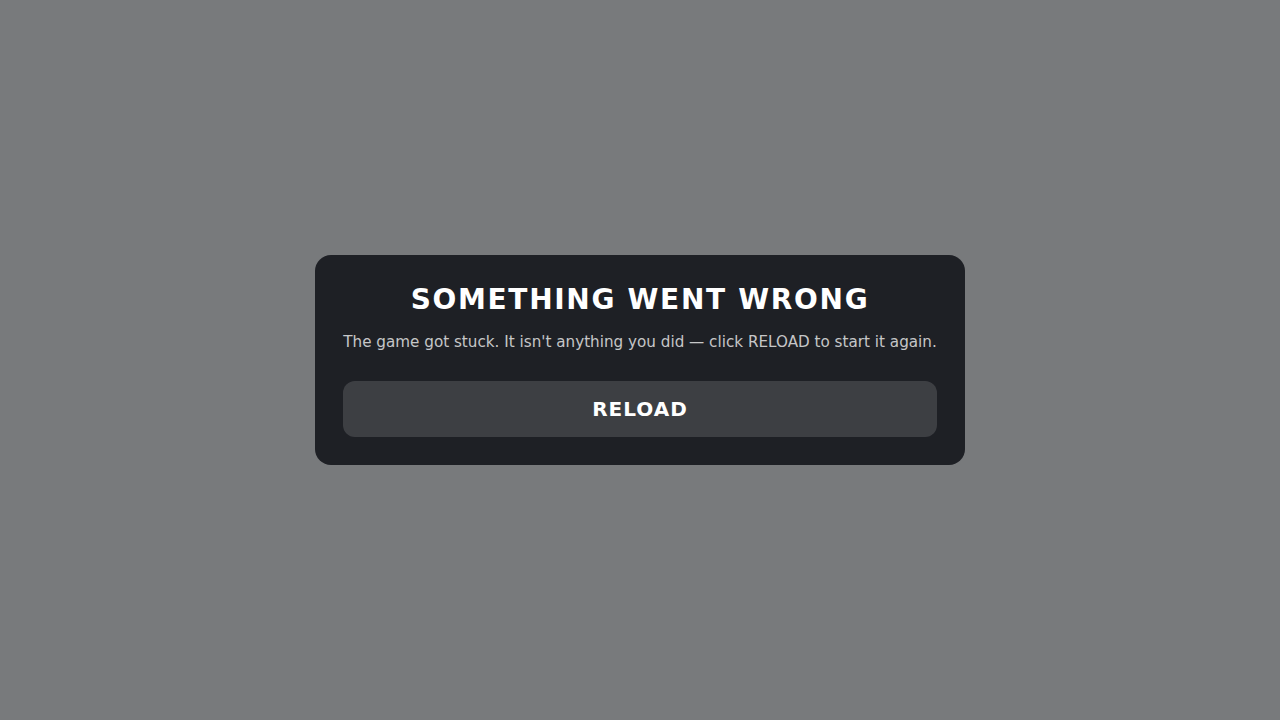
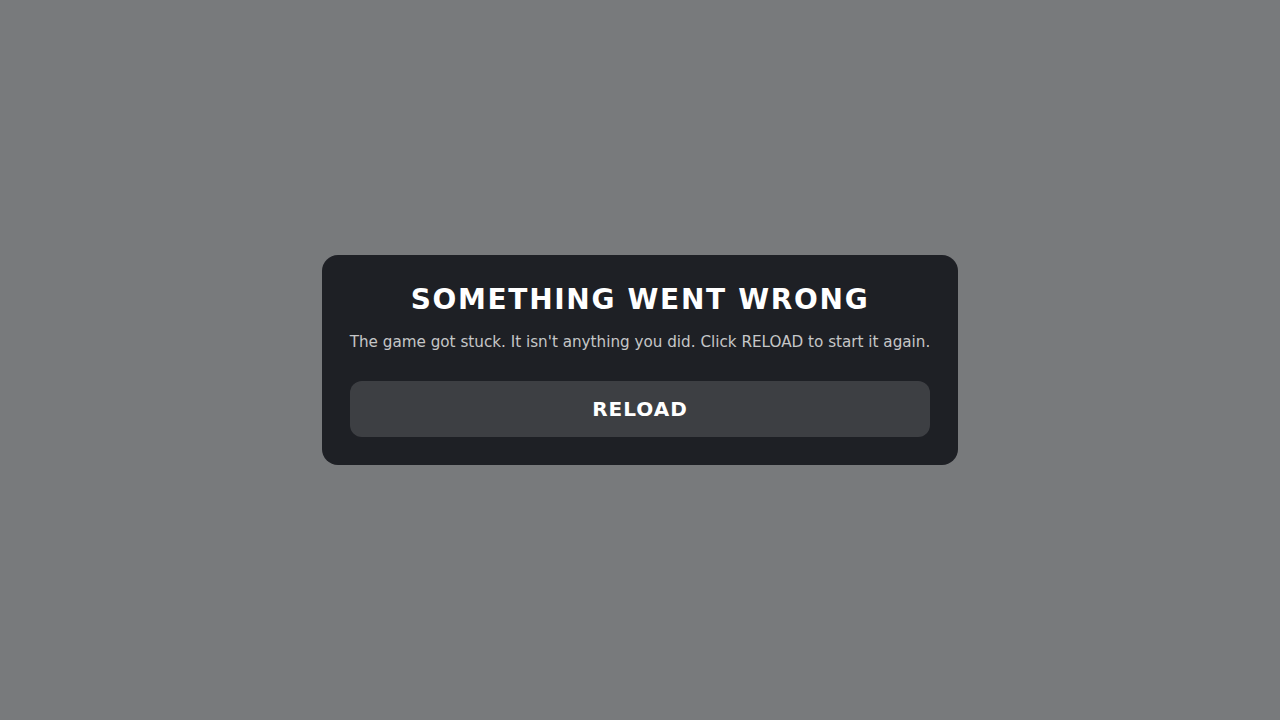
KI-06-02: land the approved error-screen copy
The design lead ruled on #276: the heading and the button as written, and
the message with one change — the dash becomes a full stop, so it is three
short sentences a child reads one at a time. The reassurance in the middle
is the best line on the screen and it deserves to stand on its own.

    The game got stuck. It isn't anything you did. Click RELOAD to start
    it again.

`Click` is capitalised because it now opens a sentence rather than
following a dash.

The three markers flip from unapproved to approved and the three strings
are quoted in DESIGN-DECISIONS §3 under a new Error screen bullet, so the
parity test holds catalogue and document to each other character for
character from now on — which is the point of approving copy at all. The
visual baseline is regenerated, and so is the screenshot the ruling was
made from.

Claude-Session: https://claude.ai/code/session_01MrM5NfEPoAQPbQz2nVkKTr

Changed region(s): [[0.2188, 0.3667, 0.7812, 0.6111]]

diff --git a/src/ui/strings.js b/src/ui/strings.js
@@ -491,21 +491,25 @@ export const tutorial = /*#__PURE__*/ deepFreeze({
  *
  * KI-06-02 (`docs/sprints/improvement-06-resilience-and-recovery.md`): the last-resort screen
  * (`src/ui/screens/error.js`), shown when WebGL was never available, a lost context never comes back, or
- * something threw during startup. Every entry is a first draft transcribed for the design lead to rule on —
- * see this module's own doc comment's "Approved vs. unapproved" section — written to the ticket's own spec:
- * "in words an eleven-year-old can act on, not a stack trace", with no `WebGL`, `context`, `GPU`, `Error`,
- * stack or error code anywhere in it. `tests/unit/ui/strings.test.js`'s "KI-06-02 AC3" describe block is the
- * machine-checkable half of that rule: a list of forbidden substrings run against every string this group
- * renders.
+ * something threw during startup. **All three entries are approved** (the design lead's ruling on #276,
+ * recorded in `DESIGN-DECISIONS §3` under "Error screen"), so the AC1 parity test now holds them to §3
+ * character for character. They are written to the ticket's own spec: "in words an eleven-year-old can act
+ * on, not a stack trace", with no `WebGL`, `context`, `GPU`, `Error`, stack or error code anywhere in them.
+ * `tests/unit/ui/strings.test.js`'s "KI-06-02 AC3" describe block is the machine-checkable half of that
+ * second rule: a list of forbidden substrings run against every string this group renders.
  */
 export const error = /*#__PURE__*/ deepFreeze({
-  // UNAPPROVED — KI-06-02 (`error.js`'s `heading.textContent`). "What happened", without naming the cause:
-  // an eleven-year-old has no use for "WebGL context lost", and the ticket rules that word choice out anyway.
+  // APPROVED — DESIGN-DECISIONS §3
+  // "What happened", without naming the cause: an eleven-year-old has no use for a lost graphics context, and
+  // the ticket rules that word choice out anyway.
   heading: 'SOMETHING WENT WRONG',
-  // UNAPPROVED — KI-06-02 (`error.js`'s `message.textContent`). "What to do about it", plus one reassurance a
-  // player looking at a dead screen needs before anything else: this was not something they did.
-  message: "The game got stuck. It isn't anything you did — click RELOAD to start it again.",
-  // UNAPPROVED — KI-06-02 (`error.js`'s `reloadButton.textContent`); the ticket's own name for the control.
+  // APPROVED — DESIGN-DECISIONS §3
+  // Three short sentences rather than two clauses joined by a dash (the design lead's ruling on #276): the
+  // reassurance in the middle is the best line on the screen and deserves to stand on its own, which is also
+  // why `Click` is capitalised here — it opens a sentence now, where it used to follow a dash.
+  message: "The game got stuck. It isn't anything you did. Click RELOAD to start it again.",
+  // APPROVED — DESIGN-DECISIONS §3
+  // The ticket's own name for the control, and the word the message tells the player to look for.
   reloadButton: 'RELOAD',
 });
 
@@ -581,4 +585,7 @@ export const APPROVED_KEYS = deepFreeze([
   'playtestPrompt.hintLine',
   'hud.minSizeNote',
   'tutorial.skipHint',
+  'error.heading',
+  'error.message',
+  'error.reloadButton',
 ]);

diff --git a/docs/design/DESIGN-DECISIONS.md b/docs/design/DESIGN-DECISIONS.md
@@ -193,6 +193,14 @@ eleven-year-old: short words, no jargon, and no exclamation mark doing the work 
 - **The scoreboard on the third consecutive draw** (#150): that round is not replayed, so it must not say REPLAY.
   It reads **"THIRD DRAW — MATCH OVER"**, then the match-over screen follows as usual. The ordinary draw keeps
   "DRAW — REPLAY" and the second keeps its "one more and the match is called" warning.
+- **Error screen (Improvement 06, KI-06-02).** The last-resort screen, shown when the game cannot draw at
+  all: no WebGL at start-up, a lost graphics context that has not come back after three seconds, or an
+  unexpected throw while the game is loading. Three lines, verbatim — the heading "SOMETHING WENT WRONG",
+  then "The game got stuck. It isn't anything you did. Click RELOAD to start it again.", then the button
+  "RELOAD". Three short sentences rather than two clauses joined by a dash: the reassurance in the middle is
+  the best line on the screen and it deserves to stand on its own. No cause is named and no jargon appears —
+  a rule with a test behind it, not a hope. The screen comes back down again the moment the graphics return,
+  because it is a statement about the present rather than a verdict.
 - **The colour-safe pairing note on match setup** (Improvement 15, KI-15-02): two lines, verbatim, next to
   the colour rows — "These two colours look alike to some players." and "Try TEAL for PLAYER 2." The colour
   word and the player number are computed, never literals; PLAYER is capitalised because the controls card

diff --git a/CHANGELOG.md b/CHANGELOG.md
@@ -38,8 +38,10 @@ yet: `package.json` is at `0.1.0`, Sprint 18 cuts `v1.0.0`, and everything below
   frozen picture, and picks the round up where it stopped, with the same `READY?` count-in a normal unpause
   gets. Before this, the only way out was reloading the page, which lost the match (#287).
 - **A plain screen for when it truly cannot be fixed.** If graphics were never available, if a lost picture
-  never comes back after a few seconds, or if something goes wrong while the game is starting up, the screen
-  now says so in plain words and offers a RELOAD button — instead of a blank page or a frozen one (#284).
+  never comes back after three seconds, or if something goes wrong while the game is starting up, the screen
+  now says so in plain words and offers a RELOAD button — instead of a blank page or a frozen one. It reads
+  "SOMETHING WENT WRONG", then "The game got stuck. It isn't anything you did. Click RELOAD to start it
+  again." And if the graphics come back, the screen goes away again and the game carries on (#284, #297).
 
 ### Changed
 
